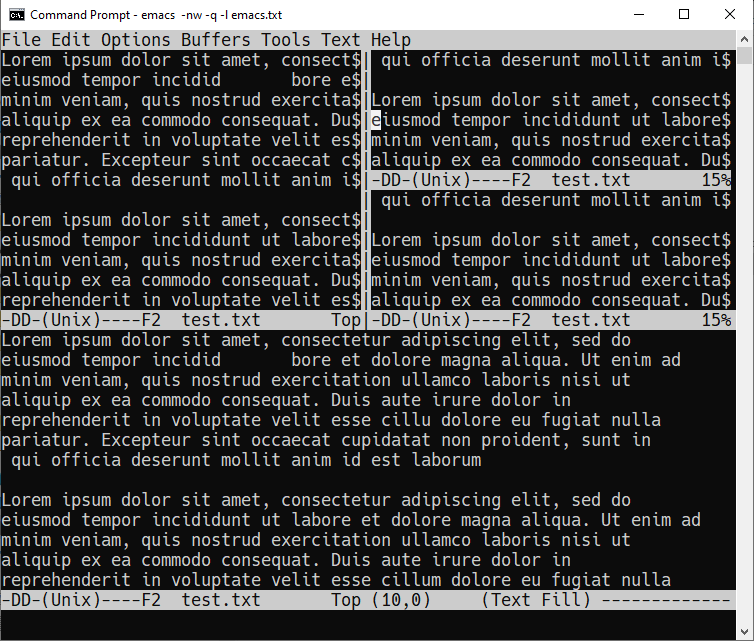
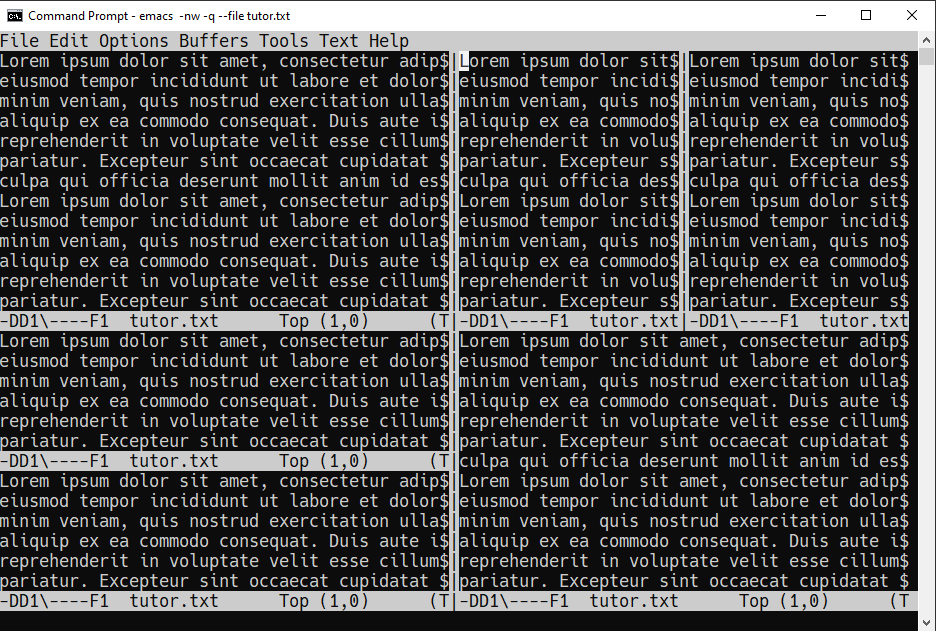
update

diff --git a/org/tutorial.md b/org/tutorial.md
@@ -1,24 +1,24 @@
 
 # Table of Contents
 
-1.  [README](#org523a606)
-2.  [Buffer and key basics](#orgd7ff23b)
-3.  [The mode line - basic buffer movement](#orgb5b45c2)
-4.  [Splitting windows](#org7a7f4a4)
-5.  [Indentation, lines, paragraphs, undo](#orgf4ad253)
-6.  [Delete, copy, kill/cut, yank/paste text](#org8b316d3)
-7.  [Searching up and down](#org3cb868f)
-8.  [Directory and listing buffer](#org31d4023)
-9.  [Open shell, write, export, time stamp file](#org9439b7a)
-10. [Getting help](#org1140cfa)
-11. [Looking up online help](#org1503ce0)
-12. [More information: video, refcard, FAQs](#orgdfb3a45)
-13. [Glossary / Emacs cheat sheet](#org6ccfa65)
-14. [Acknowledgements](#org4037d21)
+1.  [README](#org4896604)
+2.  [Buffer and key basics](#org3a31b8e)
+3.  [The mode line - basic buffer movement](#org5e12353)
+4.  [Indentation, lines, paragraphs, undo](#orgb2ac440)
+5.  [Splitting windows](#orgd6e32bd)
+6.  [Delete, copy, kill/cut, yank/paste text](#org0a3aac0)
+7.  [Searching up and down](#org762dd4a)
+8.  [Directory and listing buffer](#orgc09350f)
+9.  [Open shell, write, export, time stamp file](#orgf8684c7)
+10. [Getting help](#org98d1c12)
+11. [Looking up online help](#orgce94873)
+12. [More information: video, refcard, FAQs](#orgb1117b8)
+13. [Glossary / Emacs cheat sheet](#org67ee150)
+14. [Acknowledgements](#orga70f66d)
 
 
 
-<a id="org523a606"></a>
+<a id="org4896604"></a>
 
 # README
 
@@ -40,7 +40,7 @@
     download.
 
 
-<a id="orgd7ff23b"></a>
+<a id="org3a31b8e"></a>
 
 # Buffer and key basics
 
@@ -61,7 +61,7 @@
     have compound commands like `C-x C-f`, you can check your progress.
 
 
-<a id="orgb5b45c2"></a>
+<a id="org5e12353"></a>
 
 # The mode line - basic buffer movement
 
@@ -91,7 +91,8 @@
 6.  The mode line now indicates that the file has been changed: `**--`
 
 7.  Save the file with `C-x C-s`. You should get a confirmation in the
-    minibuffer, alongside the full path to the file, e.g.
+    minibuffer, alongside the full path to the file - and the mode line
+    changes to `----`:
     
         Wrote c:/Users/birkenkrahe/tutor.txt
 
@@ -110,7 +111,64 @@
     on/off by repeating the command. Try that a couple of times.
 
 
-<a id="org7a7f4a4"></a>
+<a id="orgb2ac440"></a>
+
+# Indentation, lines, paragraphs, undo
+
+1.  To distribute the text over more than one line, enter `M-q`, or `M-x
+       fill-paragraph`: this command will fill the text in lines of max 70
+    characters).
+
+2.  You can also toggle `M-x auto-fill-mode`, which will fill the
+    paragraph any time you're at the of a line. You're told when a mode
+    is enabled/disabled for the current buffer.
+
+3.  Test that: go to the end of the current paragraph, enter a new
+    (empty) line and insert the text from `text.txt` once again.
+
+4.  Enable `auto-fill-mode`, go to the end of the new line you just
+    inserted, and press `<RET>`. The paragraph should be filled just so.
+
+5.  You probably want to see this again! Type `C-x u` (or `C-/` or `C-_`) to
+    undo the last operation, then press `<RET>` again. The minibuffer
+    will report `Undo`.
+
+6.  `C-x` commands can be repeated as often as you wish. For example, to
+    go back 4 words, enter `C-u 4 M-x b`.
+
+7.  If you filled the lines, you should now have multiple lines. To go
+    up and down them, use `C-p` (up/previous) and `C-n` (down/next). How
+    would you go up 3 lines?  Right: `C-u 3 C-p`.
+
+8.  Add the `text.txt` files another 5 times: navigate to the end of
+    the text using `C-e` (end of line) and `C-n` (next line). Then 5 times:
+    -   `<RET>` to create a new line
+    -   `C-x i text.txt <RET>` to insert
+    -   `C-e` to go to the end of the line
+    -   Press `<RET>` to auto-fill paragraph
+
+9.  To scroll one page down in this large file, use `C-v`. To scroll up,
+    use `M-v`.
+
+10. To go to the top of the file, enter `M-<`. To go to the end of the
+    file, enter `M->`.
+
+11. To recenter so that the line under the cursor is in the middle of
+    the window, enter `C-l`.
+
+12. Move around the file a little **without touching your mouse**:
+    -   Jump to the top of the buffer (`M-<`)
+    -   Go down one page (`C-v`)
+    -   Go to column 35 jumping by words (`M-f`)
+    -   Correct with character movements until you're at 35 (`C-f`, `C-b`)
+    -   Jump to the end of the file (`M->`)
+    -   Go up two pages (`M-v M-v`)
+    -   Recenter (`C-l`)
+    -   Go to the end of the line (`C-e`)
+    -   Go back to the top of the buffer (`M-<`)
+
+
+<a id="orgd6e32bd"></a>
 
 # Splitting windows
 
@@ -122,53 +180,18 @@ You can split windows any way you like.
 
 3.  Move between windows with `C-x o` <sup><a id="fnr.1" class="footref" href="#fn.1" role="doc-backlink">1</a></sup>.
 
-4.  Delete all but the current window with `C-x 1`.
+4.  Delete a window you're in with `C-x 0`
 
-5.  Recreate the following window setup:
+5.  Delete all but the current window with `C-x 1`.
+
+6.  Recreate the following window setup:
     
     ![img](../img/0_windows.png)
 
-
-<a id="orgf4ad253"></a>
-
-# Indentation, lines, paragraphs, undo
-
-1.  To distribute the text over more than one line, enter `M-q`, or `M-x
-       fill-paragraph`: this command will fill the text in lines (max 70
-    characters)<sup><a id="fnr.2" class="footref" href="#fn.2" role="doc-backlink">2</a></sup>.
-
-2.  You can also toggle `M-x auto-fill-mode`, which will fill the
-    paragraph any time you're at the of a line.
-
-3.  Test that: go to the end of the current paragraph, enter a new
-    (empty) line and insert the text from `text.txt` once again.
-
-4.  Enable `auto-fill-mode`, go to the end of the new line you just
-    inserted, and press `<RET>`. The paragraph should be filled just so.
-
-5.  You probably want to see this again! Type `C-x u` (or `C-/` or `C-_`) to
-    undo the last operation, then press `<RET>` again.
-
-6.  `C-x` commands can be repeated as often as you wish. For example, to
-    go back 4 steps, enter `C-u 4 C-x u`.
-
-7.  Now you have multiple lines. To go up and down them, use `C-p`
-    (up/previous) and `C-n` (down/next). How would you go up 10 lines?
-    Right: `C-u 10 C-p`.
-
-8.  Add the `text.txt` files another three times. Each time:
-    -   `C-x i text.txt` to insert
-    -   `C-e` to go to the end of the line
-    -   Press `<RET>` to auto-fill paragraph
-
-9.  To scroll one page down in this large file, use `C-v`. To scroll up,
-    use `M-v`.
-
-10. To go to the top of the file, enter `M-<`. To go to the end of the
-    file, enter `M->`.
+7.  Delete all but the current window with `C-x 1`.
 
 
-<a id="org8b316d3"></a>
+<a id="org0a3aac0"></a>
 
 # Delete, copy, kill/cut, yank/paste text
 
@@ -177,9 +200,10 @@ You can split windows any way you like.
 
 2.  You can delete forward by toggling `M-x overwrite-mode`. Try that:
     press the space bar (`<SPC>`) a few times with and without overwrite
-    mode.
+    mode. The modeline now shows `Ovwr`.
 
-3.  Switch overwrite mode off (no `Ovwr` in the mode line).
+3.  Disable overwrite by running the function again: `M-x
+       overwrite-mode`. There should now be **no** `Ovwr` in the mode line.
 
 4.  Highlight a region: mark the beginning of the region with `C-SPC`
     (minibuffer: `Mark set`), and then move the cursor to wherever you
@@ -187,7 +211,7 @@ You can split windows any way you like.
     
     ![img](../img/0_region.png "Highlight region after setting mark with C-SPC")
 5.  You can now run commands on the region, for example:
-    -   delete it `C-d`)
+    -   delete it (`<Backdelete>`)
     -   cut ("kill") it (`C-w`)
     -   copy it (`M-w`)
     -   paste ("yank") it (`C-y`)
@@ -195,8 +219,8 @@ You can split windows any way you like.
 6.  To try this, mark a whole paragraph (beginning with `Lorem` and
     ending with `laborum`) and cut it (`C-w`).
 
-7.  Move to the end of the buffer (`M->`) and yank the region there
-    (`C-y`).
+7.  Move to the end of the buffer (`M->`), enter a new line (`<RET>`) and
+    yank the region there (`C-y`).
 
 8.  Mark another paragraph and copy (`M-w`) it, then go to to the top of
     the buffer (`M-<`) and yank it (`C-y`).
@@ -208,7 +232,7 @@ You can split windows any way you like.
     active, that is when a mark has been set or a region selected.
 
 
-<a id="org3cb868f"></a>
+<a id="org762dd4a"></a>
 
 # Searching up and down
 
@@ -232,12 +256,14 @@ You can split windows any way you like.
        I-search backward` when you incrementally searched past the buffer
     with `C-r`.
 
-6.  Stop the search and start it again: if you do not enter a search
-    term but just type `C-s` or `C-r` again, the last search term will
-    appear.
+6.  Stop the search (`C-g`) and start it again: if you do not enter a
+    search term but just type `C-s` or `C-r` again, the last search term
+    will appear.
+
+7.  Stop the search with `C-g`.
 
 
-<a id="org31d4023"></a>
+<a id="orgc09350f"></a>
 
 # Directory and listing buffer
 
@@ -247,42 +273,47 @@ You can split windows any way you like.
     ("Directory editor") buffer, which is very powerful.
 
 3.  `Dired` has a bunch of single letter commands. One is `s` to sort the
-    files by name or time: toggle this by pressing `s` twice.
+    files by name or time: Go to the top of the buffer (`M-<`), then
+    toggle this by pressing `s` twice.
 
 4.  In the directory list, `.` stands for the current directory (the name
     of which appears at the top), and `..` stands for the next upper
     level directory.
 
-5.  When the cursor is on the line for that file or directory, you can:
+5.  Go to the `..` line and press `<RET>` - this will get you to the `Users`
+    directory above your own. Find your name, go there with the cursor
+    and press `<RET>` to get back home.
+
+6.  When the cursor is on the line for that file or directory, you can:
     -   rename it with `R`
     -   copy it with `C` (upper case)
     -   compress it (zip it) with `c` (lower case)
     -   mark it for some other command with `m`
 
-6.  Now, you already have several buffers open, including the file
+7.  Now, you already have several buffers open, including the file
     `tutor.txt`, a `Dired` buffer, and others: display all open buffers in a
     separate window with `C-x C-b`.
     
     ![img](../img/0_bufferlist.png "C-x C-b opens the **Buffer List** in a separate buffer")
 
-7.  Change to the `*Buffer List*` window with `C-x o`. Move the cursor on
+8.  Change to the `*Buffer List*` window with `C-x o`. Move the cursor on
     the line with `*scratch*` and press `<RET>` to open the `*scratch*`
     buffer.
 
-8.  Now enter `C-x b` and you see the message `Switch to buffer (default
+9.  Now enter `C-x b` and you see the message `Switch to buffer (default
        *Buffer List*):` in the mini-buffer. If you press `<RET>`, you get back
     to the `*Buffer List*`.
 
-9.  Enter `C-x b` again, but this time type `C-p` when the cursor is in the
+10. Enter `C-x b` again, but this time type `C-p` when the cursor is in the
     mini-buffer: the buffer you were in before that (the `Dired` buffer)
     is suggested. With `C-p` you can get to previous, with `C-n` to the
     next default until the list is at an end.
 
-10. Using `C-x b`, return to the `tutor.txt` buffer and delete all other
+11. Using `C-x b`, return to the `tutor.txt` buffer and delete all other
     windows with `C-x 1`.
 
 
-<a id="org9439b7a"></a>
+<a id="orgf8684c7"></a>
 
 # Open shell, write, export, time stamp file
 
@@ -334,7 +365,7 @@ be using them plenty later on:
 9.  Save the file with `C-x C-s` and submit it in Canvas.
 
 
-<a id="org1140cfa"></a>
+<a id="org98d1c12"></a>
 
 # Getting help
 
@@ -357,7 +388,7 @@ be using them plenty later on:
 7.  For psychological help, try `M-x doctor`.
 
 
-<a id="org1503ce0"></a>
+<a id="orgce94873"></a>
 
 # Looking up online help
 
@@ -375,7 +406,7 @@ be using them plenty later on:
        C-o`): <https://tinyurl.com/3j5ddtuk>
 
 
-<a id="orgdfb3a45"></a>
+<a id="orgb1117b8"></a>
 
 # More information: video, refcard, FAQs
 
@@ -388,7 +419,7 @@ be using them plenty later on:
     ![img](../img/0_github_search.png "Searching for headlines with "Emacs" in the FAQ file")
 
 
-<a id="org6ccfa65"></a>
+<a id="org67ee150"></a>
 
 # Glossary / Emacs cheat sheet
 
@@ -587,7 +618,7 @@ Here is the [PDF version of the cheat sheet](https://github.com/birkenkrahe/cc/b
 
 <tr>
 <td class="org-left"><code>C-c C-v t</code></td>
-<td class="org-left"><code>org-babel-tangle</code> file<sup><a id="fnr.3" class="footref" href="#fn.3" role="doc-backlink">3</a></sup></td>
+<td class="org-left"><code>org-babel-tangle</code> file<sup><a id="fnr.2" class="footref" href="#fn.2" role="doc-backlink">2</a></sup></td>
 </tr>
 
 
@@ -599,7 +630,7 @@ Here is the [PDF version of the cheat sheet](https://github.com/birkenkrahe/cc/b
 </table>
 
 
-<a id="org4037d21"></a>
+<a id="orga70f66d"></a>
 
 # Acknowledgements
 
@@ -615,7 +646,5 @@ me of Eliza in Emacs!
 use the `ace-window` package. You can install and update Emacs packages
 with the package manager (`M-x package-list-packages`).
 
-<sup><a id="fn.2" href="#fnr.2">2</a></sup> You can change the `fill-column` value to any other value > 0.
-
-<sup><a id="fn.3" href="#fnr.3">3</a></sup> This operation refers to extracting source code from a code
+<sup><a id="fn.2" href="#fnr.2">2</a></sup> This operation refers to extracting source code from a code
 block. The header command `:tangle yes` has to be set.
